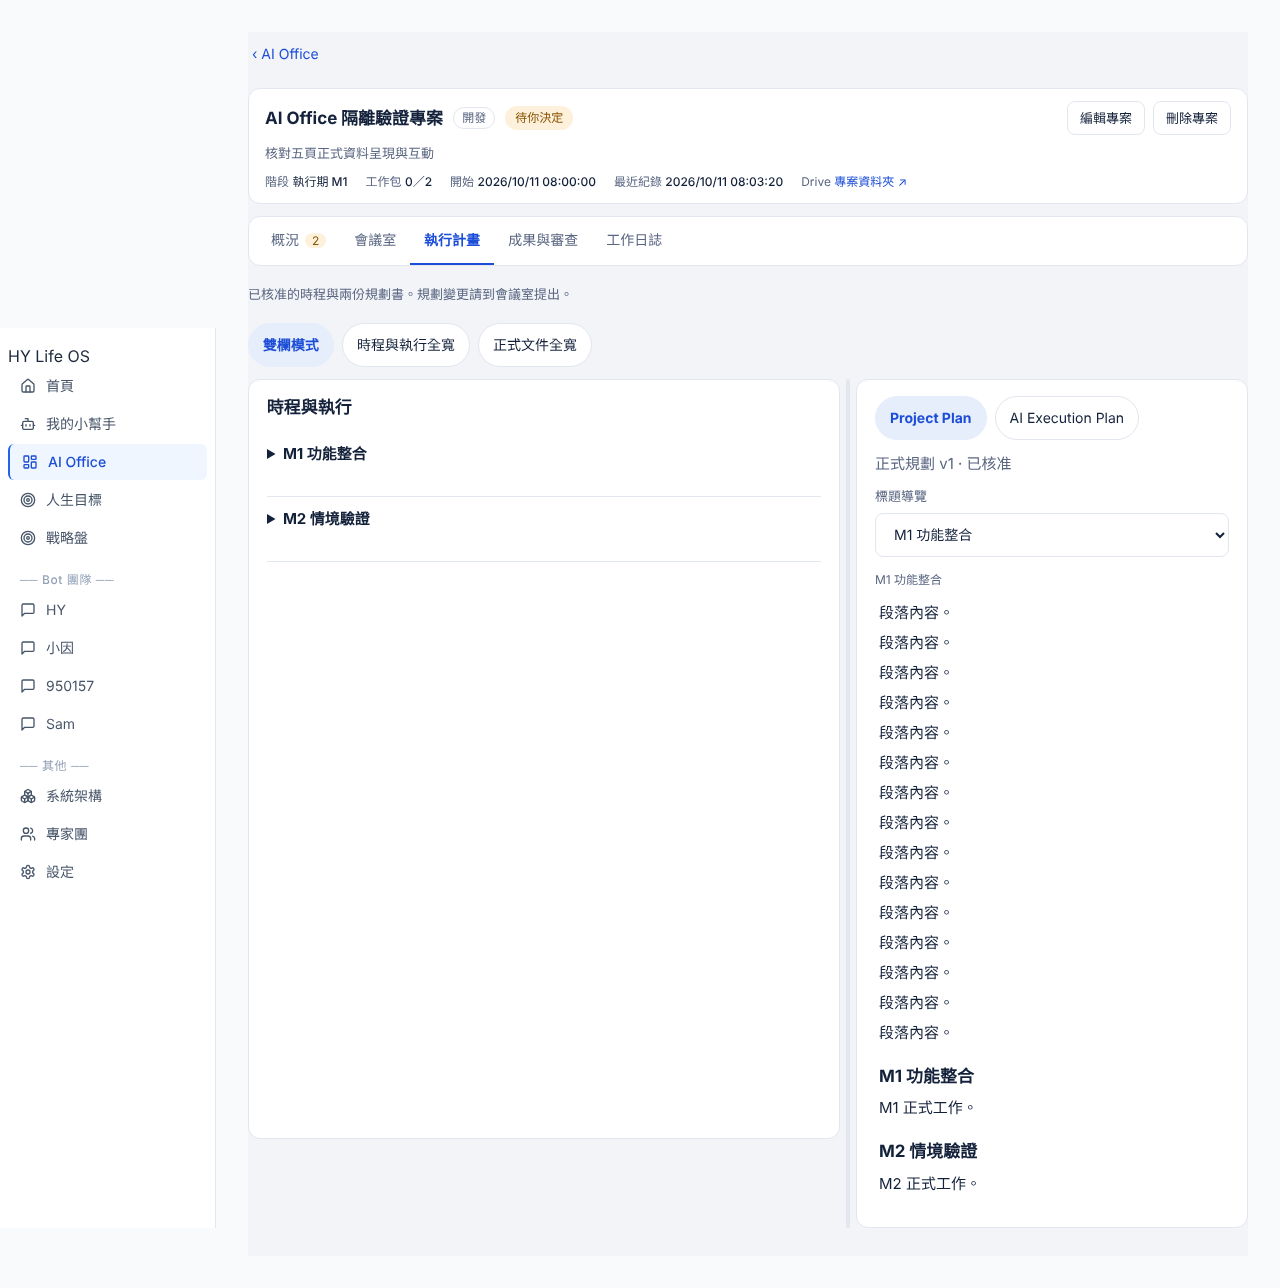
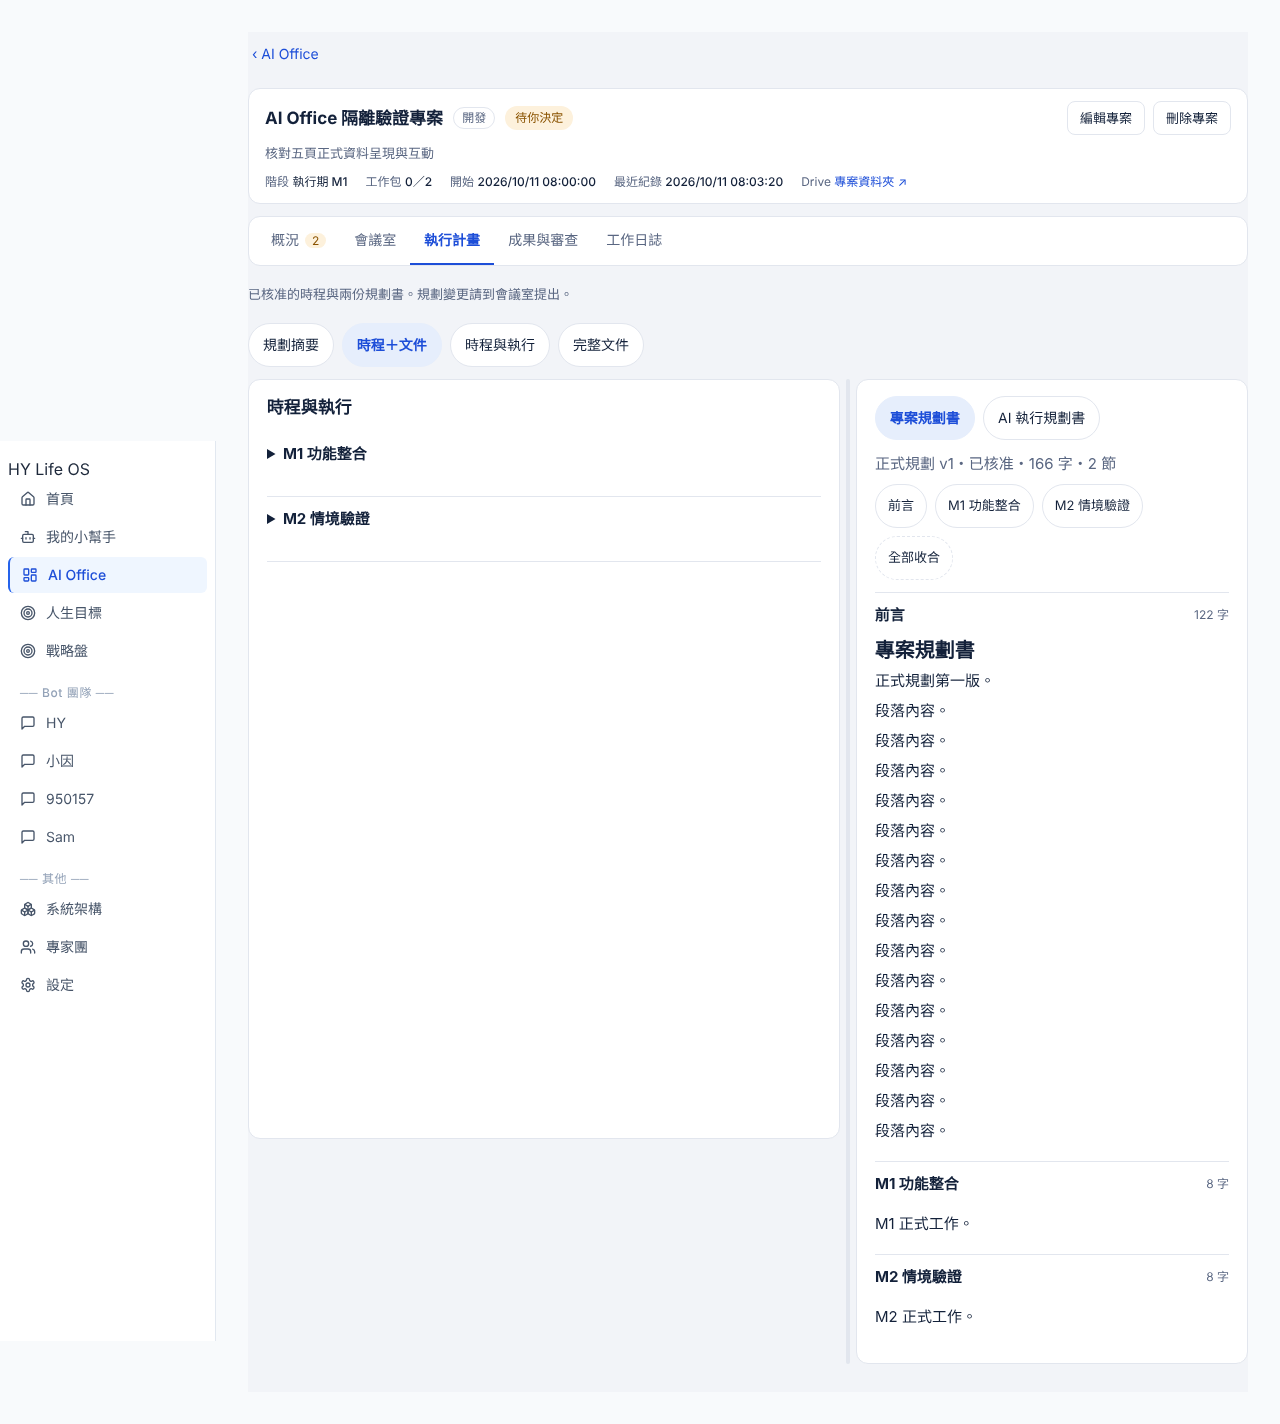
AI Office: 規劃書改版——摘要頁、章節收合的完整文件、資料空間提醒
Claude-Session: https://claude.ai/code/session_01Y7KnifNudZkNJpfnrnvfMK

diff --git a/src/pages/AIOfficeV1.jsx b/src/pages/AIOfficeV1.jsx
@@ -7,6 +7,7 @@ import { authHeaders, ensureAccessToken, expireSession } from '../auth'
 import { OFFICE_TABS, TAB_NOTES, isPending, requester, activityLabel, PACKAGE_STATUS, progress, milestones, journal, safeUrl, driveFile } from '../lib/aiOffice.mjs'
 import { laneLabel } from '../lib/lanes'
 import OfficeHome from './OfficeHome'
+import { PlanSummary, PlanDocument, CapacityBanner } from './PlanViews'
 import './ai-office-v1.css'
 
 const base = (import.meta.env.VITE_API_BASE || '').replace(/\/$/, '')
@@ -27,7 +28,7 @@ function Empty({ children }) { return <p className="ao-empty">{children}</p> }
 function Markdown({ value }) { return value ? <ReactMarkdown remarkPlugins={[remarkGfm]} skipHtml components={{a: ({href,children}) => <Link href={href}>{children}</Link>}}>{value}</ReactMarkdown> : <Empty>正式文件尚未提供。</Empty> }
 
 export default function AIOfficeV1() {
-  return <div className="ao"><ControlCenterV5 title="AI Office" loadData={loadOffice} renderCreation={props=><OfficeCreate {...props}/>} renderHome={props=><OfficeHome {...props}/>} renderProject={({project,onBack,onDeleted}) => <OfficeProject key={project.id} id={project.id} onBack={onBack} onDeleted={onDeleted} />} /></div>
+  return <div className="ao"><ControlCenterV5 title="AI Office" loadData={loadOffice} renderCreation={props=><OfficeCreate {...props}/>} renderHome={props=><><CapacityBanner/><OfficeHome {...props}/></>} renderProject={({project,onBack,onDeleted}) => <OfficeProject key={project.id} id={project.id} onBack={onBack} onDeleted={onDeleted} />} /></div>
 }
 
 function OfficeCreate({onCancel,onCreated}) {
@@ -81,6 +82,7 @@ function OfficeProject({ id, onBack, onDeleted }) {
     <nav className="ao-tabs" aria-label="AI Office 專案分頁">{OFFICE_TABS.map(([key,label])=><button key={key} aria-current={tab===key?'page':undefined} onClick={()=>setTab(key)}>{label}{key==='overview' && pending.length>0 && <span>{pending.length}</span>}</button>)}</nav>
     <p className="ao-tabnote">{TAB_NOTES[tab]}</p>
     {error && <p role="alert">{error}</p>}
+    <CapacityBanner/>
     <div hidden={tab!=='overview'}><Overview project={project} pending={pending} onExecution={openExecution} reload={reload} setError={setError}/></div>
     <div hidden={tab!=='meeting'}><Meeting project={project} reload={reload} onOverview={()=>setTab('overview')}/></div>
     <div hidden={tab!=='execution'}><Execution project={project} plan={plan} selected={selectedWork} select={setSelectedWork}/></div>
@@ -150,18 +152,18 @@ function Meeting({project,reload,onOverview}) {
 }
 
 function Execution({project,plan,selected,select}) {
-  const [mode,setMode]=useState('split'),[ratio,setRatio]=useState(60),[document,setDocument]=useState('project'),[heading,setHeading]=useState('')
-  const container=useRef(null),reader=useRef(null),dragging=useRef(false),[drag,setDrag]=useState(false)
-  const rows=milestones(project), markdown=(document==='project'?plan?.project_plan_markdown:plan?.ai_execution_plan_markdown) || ''
-  const headings=markdown.split('\n').filter(line=>/^#{1,6}\s/.test(line)).map(line=>line.replace(/^#+\s*/,''))
-  function locate(value){const nodes=[...(reader.current?.querySelectorAll('h1,h2,h3,h4,h5,h6') || [])];const target=nodes.find(n=>n.textContent.includes(value));if(target){reader.current.scrollTop=Math.max(0,target.offsetTop-reader.current.offsetTop);setHeading(target.textContent)}else setHeading(`正式文件未提供 ${value} 的對應標題。`)}
-  useEffect(()=>{if(selected){const pkg=project.packages.find(p=>p.id===selected);locate(pkg?.milestone_id || selected)}},[selected,document,markdown])
+  const [mode,setMode]=useState('summary'),[ratio,setRatio]=useState(60),[focus,setFocus]=useState('')
+  const container=useRef(null),dragging=useRef(false),[drag,setDrag]=useState(false)
+  const rows=milestones(project)
+  // 從概況點里程碑／工作包進來：切到「規劃文件」並跳到對應章節。
+  useEffect(()=>{if(selected){const pkg=project.packages.find(p=>p.id===selected);setFocus(pkg?.milestone_id || selected);setMode(m=>m==='summary'?'split':m)}},[selected])
   useEffect(()=>{if(!drag)return;const move=e=>{const rect=container.current.getBoundingClientRect();setRatio(Math.max(30,Math.min(75,(e.clientX-rect.left)/rect.width*100)))};const up=()=>{dragging.current=false;setDrag(false)};window.addEventListener('pointermove',move);window.addEventListener('pointerup',up);return()=>{window.removeEventListener('pointermove',move);window.removeEventListener('pointerup',up)}},[drag])
-  return <><div className="ao-toolbar" role="group" aria-label="執行計畫顯示模式">{[['split','雙欄模式'],['work','時程與執行全寬'],['document','正式文件全寬']].map(([key,label])=><button key={key} aria-pressed={mode===key} onClick={()=>setMode(key)}>{label}</button>)}</div>
-    <div className={`ao-execution ao-mode-${mode}`} ref={container} style={{'--work-ratio':`${ratio}%`}}>
-      <section className="ao-card ao-work-pane" hidden={mode==='document'} aria-label="時程與執行"><h2>時程與執行</h2>{rows.map(m=><details key={m.id} open={selected===m.id || m.packages.some(p=>p.id===selected) || !selected}><summary onClick={()=>{select(m.id);locate(m.id)}}><b>{m.id} {m.name}</b></summary><p>目標：{text(m.goal || m.objective)}</p><p>交付：{text(m.deliverables)}</p><p>驗收條件：{text(m.acceptance_criteria)}</p>{m.packages.map(p=><article key={p.id} className="ao-package"><button className="ao-row" aria-pressed={selected===p.id} onClick={()=>{select(p.id);locate(m.id)}}><b>{p.task}</b><span>{PACKAGE_STATUS[p.status]} · {p.executor}</span></button><p>前置相依：{p.dependencies.length?p.dependencies.map(id=>project.packages.find(w=>w.id===id)?.task || id).join('、'):'無'}</p><p>交付成果：{text(p.expected_outputs)}</p><p>驗收條件：{text(p.acceptance_criteria)}</p>{p.status==='BLOCKED' && <p className="ao-muted">阻塞依據：{text(p.requires)}</p>}</article>)}</details>)}{!rows.length && <Empty>尚無正式 Milestone。小型專案不強制固定里程碑數量。</Empty>}</section>
+  return <><div className="ao-toolbar" role="group" aria-label="執行計畫顯示模式">{[['summary','規劃摘要'],['split','時程＋文件'],['work','時程與執行'],['document','完整文件']].map(([key,label])=><button key={key} aria-pressed={mode===key} onClick={()=>setMode(key)}>{label}</button>)}</div>
+    {mode==='summary' && <PlanSummary plan={plan} project={project} onOpenDocument={()=>setMode('document')}/>}
+    <div className={`ao-execution ao-mode-${mode}`} ref={container} style={{'--work-ratio':`${ratio}%`}} hidden={mode==='summary'}>
+      <section className="ao-card ao-work-pane" hidden={mode==='document'} aria-label="時程與執行"><h2>時程與執行</h2>{rows.map(m=><details key={m.id} open={selected===m.id || m.packages.some(p=>p.id===selected) || !selected}><summary onClick={()=>{select(m.id);setFocus(m.id)}}><b>{m.id} {m.name}</b></summary><p>目標：{text(m.goal || m.objective)}</p><p>交付：{text(m.deliverables)}</p><p>驗收條件：{text(m.acceptance_criteria)}</p>{m.packages.map(p=><article key={p.id} className="ao-package"><button className="ao-row" aria-pressed={selected===p.id} onClick={()=>{select(p.id);setFocus(m.id)}}><b>{p.task}</b><span>{PACKAGE_STATUS[p.status]} · {p.executor}</span></button><p>前置相依：{p.dependencies.length?p.dependencies.map(id=>project.packages.find(w=>w.id===id)?.task || id).join('、'):'無'}</p><p>交付成果：{text(p.expected_outputs)}</p><p>驗收條件：{text(p.acceptance_criteria)}</p>{p.status==='BLOCKED' && <p className="ao-muted">阻塞依據：{text(p.requires)}</p>}</article>)}</details>)}{!rows.length && <Empty>尚無正式 Milestone。小型專案不強制固定里程碑數量。</Empty>}</section>
       <div className="ao-splitter" hidden={mode!=='split'} role="separator" aria-label="調整雙欄比例" aria-orientation="vertical" aria-valuemin={30} aria-valuemax={75} aria-valuenow={Math.round(ratio)} tabIndex={0} onPointerDown={()=>{dragging.current=true;setDrag(true)}} onKeyDown={e=>{if(['ArrowLeft','ArrowRight','Home'].includes(e.key)){e.preventDefault();setRatio(e.key==='Home'?60:Math.max(30,Math.min(75,ratio+(e.key==='ArrowLeft'?-5:5))))}}}/>
-      <section className="ao-card ao-document-pane" hidden={mode==='work'} aria-label="正式規劃文件"><div className="ao-toolbar">{[['project','Project Plan'],['ai','AI Execution Plan']].map(([key,label])=><button key={key} aria-pressed={document===key} onClick={()=>setDocument(key)}>{label}</button>)}</div><p className="ao-muted">正式規劃 v{project.plan_revision} · {project.plan_state==='APPROVED'?'已核准':'草稿，尚未正式核准'}</p><label>標題導覽<select aria-label="規劃文件標題導覽" value={headings.includes(heading)?heading:''} onChange={e=>locate(e.target.value)}><option value="">選取標題…</option>{headings.map((h,i)=><option key={i}>{h}</option>)}</select></label>{heading && <small role="status">{heading}</small>}<div className="ao-document" ref={reader}><Markdown value={markdown}/></div></section>
+      <div className="ao-doc-slot" hidden={mode==='work'}><PlanDocument project={project} plan={plan} focus={focus}/></div>
     </div></>
 }
 

diff --git a/src/pages/PlanViews.jsx b/src/pages/PlanViews.jsx
@@ -1,0 +1,115 @@
+import { useEffect, useRef, useState } from 'react'
+import ReactMarkdown from 'react-markdown'
+import remarkGfm from 'remark-gfm'
+import { request } from '../aiWorkV5Data'
+import { digestPlan, splitSections, docStats, capacityView } from '../lib/planDigest.mjs'
+import { laneLabel } from '../lib/lanes'
+
+const Empty = ({ children }) => <p className="ao-empty">{children}</p>
+const Bullets = ({ items, empty = '待補' }) => items.length
+  ? <ul className="ao-bullets">{items.map((t, i) => <li key={i}>{t}</li>)}</ul>
+  : <p className="ao-muted">{empty}</p>
+
+// 摘要：HY 先在這裡看懂「做什麼、分幾步、驗收什麼、有什麼風險」，再決定要不要讀全文。
+export function PlanSummary({ plan, project, onOpenDocument }) {
+  const d = digestPlan(plan)
+  if (!d) return <Empty>正式規劃尚未提供。PI 交出規劃後，摘要會顯示在這裡。</Empty>
+  const draft = project.plan_state !== 'APPROVED'
+  return <div className="ao-plan-summary">
+    <section className={`ao-card${draft ? ' is-focus' : ''}`} aria-label="規劃摘要">
+      <div className="ao-card-head"><h2>規劃摘要</h2><span className="hy-pill" data-s={draft ? 'you' : 'done'}>{draft ? '草稿・待你核准' : '已核准'} v{project.plan_revision}</span></div>
+      <dl className="ao-stats">
+        <div><dt>里程碑</dt><dd>{d.stats.milestones}</dd></div>
+        <div><dt>工作包</dt><dd>{d.stats.packages}</dd></div>
+        <div><dt>風險</dt><dd>{d.stats.risks}</dd></div>
+        <div><dt>缺資料</dt><dd data-warn={d.stats.missing > 0 || undefined}>{d.stats.missing}</dd></div>
+      </dl>
+      <h3>目標</h3>
+      <p>{d.goal || '待補'}</p>
+      <h3>範圍</h3>
+      <Bullets items={d.scope} />
+    </section>
+
+    <section className="ao-card" aria-label="里程碑與驗收">
+      <h2>里程碑與驗收</h2>
+      {d.milestones.map(m => <details key={m.id || m.name} className="ao-ms">
+        <summary>
+          <span className="ao-ms-id">{m.id}</span>
+          <span className="ao-ms-name"><b>{m.name}</b>{m.isMajor && <span className="hy-pill" data-s="wait">重大節點</span>}<small>{m.goal || '目標待補'}</small></span>
+          <span className="ao-ms-count">{m.packages.length} 工作包</span>
+        </summary>
+        <div className="ao-ms-body">
+          <h3>交付成果</h3><Bullets items={m.deliverables} />
+          <h3>驗收條件</h3><Bullets items={m.acceptance} />
+          {m.dependencies.length > 0 && <p className="ao-muted">前置里程碑：{m.dependencies.join('、')}</p>}
+          <h3>工作包</h3>
+          {m.packages.length ? <div className="ao-table-wrap"><table className="ao-table"><thead><tr><th>任務</th><th>誰做</th><th>前置</th></tr></thead>
+            <tbody>{m.packages.map(p => <tr key={p.key || p.task}><td>{p.task}</td><td>{laneLabel(p.executor)}</td><td>{p.dependencies.length ? p.dependencies.join('、') : '—'}</td></tr>)}</tbody></table></div>
+            : <p className="ao-muted">待補</p>}
+        </div>
+      </details>)}
+      {!d.milestones.length && <Empty>規劃尚未提供里程碑。小型專案不強制固定里程碑數量。</Empty>}
+    </section>
+
+    <div className="ao-plan-two">
+      <section className="ao-card" aria-label="風險"><h2>風險</h2><Bullets items={d.risks} empty="規劃未列風險" /></section>
+      <section className={`ao-card${d.missing.length ? ' needs-you' : ''}`} aria-label="缺少的資料"><h2>缺少的資料</h2>
+        <Bullets items={d.missing} empty="沒有缺資料" />
+        {d.required.length > 0 && <><h3>必要資料</h3><Bullets items={d.required} /></>}
+      </section>
+    </div>
+
+    {d.closure && <section className="ao-card" aria-label="結案條件"><h2>結案條件</h2><p>{d.closure.task || '待補'}</p><Bullets items={d.closure.acceptance} /></section>}
+    <div><button className="ao-primary" onClick={onOpenDocument}>看完整規劃文件</button></div>
+  </div>
+}
+
+// 完整文件：依 ## 切成章節，預設只展開第一章，其他收合；目錄按鈕直接跳到該章。
+export function PlanDocument({ project, plan, focus }) {
+  const [which, setWhich] = useState('project')
+  const markdown = (which === 'project' ? plan?.project_plan_markdown : plan?.ai_execution_plan_markdown) || ''
+  const sections = splitSections(markdown), stats = docStats(markdown)
+  const [open, setOpen] = useState({})
+  const refs = useRef({})
+  const reset = () => setOpen({ [sections[0]?.index ?? 0]: true })
+  useEffect(reset, [which, markdown])
+  const jump = index => {
+    setOpen(o => ({ ...o, [index]: true }))
+    requestAnimationFrame(() => refs.current[index]?.scrollIntoView({ block: 'start', behavior: 'smooth' }))
+  }
+  useEffect(() => {
+    if (!focus) return
+    const hit = sections.find(s => s.title.includes(focus))
+    if (hit) jump(hit.index)
+  }, [focus, markdown])
+  const allOpen = sections.length > 0 && sections.every(s => open[s.index])
+  return <section className="ao-card ao-document-pane" aria-label="正式規劃文件">
+    <div className="ao-toolbar" role="group" aria-label="選擇文件">{[['project', '專案規劃書'], ['ai', 'AI 執行規劃書']].map(([key, label]) =>
+      <button key={key} aria-pressed={which === key} onClick={() => setWhich(key)}>{label}</button>)}</div>
+    <p className="ao-muted">正式規劃 v{project.plan_revision}・{project.plan_state === 'APPROVED' ? '已核准' : '草稿，尚未正式核准'}・{stats.chars.toLocaleString('zh-TW')} 字・{stats.sections} 節</p>
+    {sections.length > 1 && <div className="ao-toc" role="navigation" aria-label="章節目錄">
+      {sections.map(s => <button key={s.index} onClick={() => jump(s.index)}>{s.title}</button>)}
+      <button className="ao-toc-all" onClick={() => setOpen(allOpen ? {} : Object.fromEntries(sections.map(s => [s.index, true])))}>{allOpen ? '全部收合' : '全部展開'}</button>
+    </div>}
+    <div className="ao-sections">{sections.map(s => <details key={s.index} ref={el => { refs.current[s.index] = el }} open={!!open[s.index]}
+      onToggle={e => { const next = e.currentTarget.open; setOpen(o => o[s.index] === next ? o : { ...o, [s.index]: next }) }}>
+      <summary><b>{s.title}</b><small>{s.chars.toLocaleString('zh-TW')} 字</small></summary>
+      <div className="ao-document"><ReactMarkdown remarkPlugins={[remarkGfm]} skipHtml>{s.body}</ReactMarkdown></div>
+    </details>)}</div>
+    {!sections.length && <Empty>正式文件尚未提供。</Empty>}
+  </section>
+}
+
+// 資料空間（後端單檔上限）。70% 以上才出現；舊版後端沒有這個端點就什麼都不顯示。
+export function CapacityBanner() {
+  const [view, setView] = useState(null)
+  useEffect(() => {
+    let alive = true
+    request('/capacity').then(c => { if (alive) setView(capacityView(c)) }).catch(() => {})
+    return () => { alive = false }
+  }, [])
+  if (!view) return null
+  return <div className={view.tone === 'bad' ? 'ao-capacity is-bad' : 'ao-capacity'} role={view.tone === 'bad' ? 'alert' : 'status'}>
+    <span className="hy-pill" data-s={view.tone}>{view.tone === 'bad' ? '已滿' : '快滿了'} {view.percent}%</span> {view.text}
+  </div>
+}

diff --git a/src/pages/ai-office-v1.css b/src/pages/ai-office-v1.css
@@ -137,3 +137,45 @@
   .ao .ao-back{margin-left:52px}.ao-home-head{padding-left:52px}
   .ao .cc5-head{align-items:flex-start;flex-direction:column}
 }
+
+/* 規劃書：摘要＋章節收合（只用 hy-ui token，不新增顏色） */
+.ao-plan-summary{display:grid;gap:16px}
+.ao-stats{display:grid;grid-template-columns:repeat(4,1fr);gap:8px;margin:0 0 8px}
+.ao-stats>div{background:var(--hy-sunken);border-radius:var(--hy-r-sm);padding:10px 12px;min-width:0}
+.ao-stats dt{font-size:var(--hy-fs-tiny);color:var(--hy-muted);margin:0}
+.ao-stats dd{margin:2px 0 0;font-size:var(--hy-fs-title);font-weight:700;line-height:1.2}
+.ao-stats dd[data-warn]{color:var(--hy-you)}
+.ao-bullets{margin:6px 0;padding-left:20px;list-style:disc}.ao-bullets li{margin:4px 0;overflow-wrap:anywhere}
+.ao-ms{border-top:1px solid var(--hy-line)}
+.ao-ms>summary{display:grid;grid-template-columns:auto 1fr auto;gap:12px;align-items:center;cursor:pointer;min-height:var(--hy-tap);padding:10px 0;list-style:none}
+.ao-ms>summary::-webkit-details-marker{display:none}
+.ao-ms-id{font-weight:700;color:var(--hy-brand);min-width:2.2em}
+.ao-ms-name{display:grid;gap:2px;min-width:0}.ao-ms-name small{white-space:normal}
+.ao-ms-name .hy-pill{justify-self:start;margin-left:0}
+.ao-ms-count{font-size:var(--hy-fs-meta);color:var(--hy-muted);white-space:nowrap}
+.ao-ms-body{padding:0 0 12px 0}
+.ao-table-wrap{overflow-x:auto}.ao-table{width:100%;border-collapse:collapse;font-size:14px}
+.ao-table th,.ao-table td{text-align:left;padding:8px 10px;border-bottom:1px solid var(--hy-line);vertical-align:top;overflow-wrap:anywhere}
+.ao-table th{color:var(--hy-muted);font-weight:500;font-size:var(--hy-fs-meta)}
+.ao-plan-two{display:grid;grid-template-columns:1fr 1fr;gap:16px}
+.ao-plan-two h2{margin-bottom:8px}
+.ao-toc{display:flex;flex-wrap:wrap;gap:8px;margin:8px 0 12px}
+.ao-toc button{border-radius:var(--hy-r-pill);font-size:var(--hy-fs-meta);padding:4px 12px}
+.ao-toc .ao-toc-all{border-style:dashed}
+.ao-sections details{border-top:1px solid var(--hy-line)}
+.ao-sections summary{display:flex;justify-content:space-between;gap:12px;align-items:center;cursor:pointer;min-height:var(--hy-tap);padding:8px 0}
+.ao-sections .ao-document{max-height:none;overflow:visible;padding:0 0 12px}
+.ao-doc-slot{flex:1;min-width:0}
+.ao-capacity{margin:0 0 12px;padding:12px 14px;border-radius:var(--hy-r-card);background:var(--hy-you-bg);color:var(--hy-you);font-size:14px}
+.ao-capacity.is-bad{background:var(--hy-bad-bg);color:var(--hy-bad)}
+@media(max-width:640px){
+  .ao-stats{grid-template-columns:repeat(2,1fr)}
+  .ao-plan-two{grid-template-columns:1fr}
+  .ao-ms>summary{grid-template-columns:auto 1fr}.ao-ms-count{grid-column:2}
+}
+
+.ao-plan-summary h3{font-size:var(--hy-fs-meta);color:var(--hy-muted);font-weight:500;margin:14px 0 4px}
+.ao-ms>summary::after{content:'展開';font-size:var(--hy-fs-tiny);color:var(--hy-muted);grid-column:auto}
+.ao-ms[open]>summary::after{content:'收合'}
+.ao-ms>summary{grid-template-columns:auto 1fr auto auto}
+@media(max-width:640px){.ao-ms>summary{grid-template-columns:auto 1fr auto}.ao-ms-count{grid-column:2}.ao-ms>summary::after{grid-row:1;grid-column:3}}
